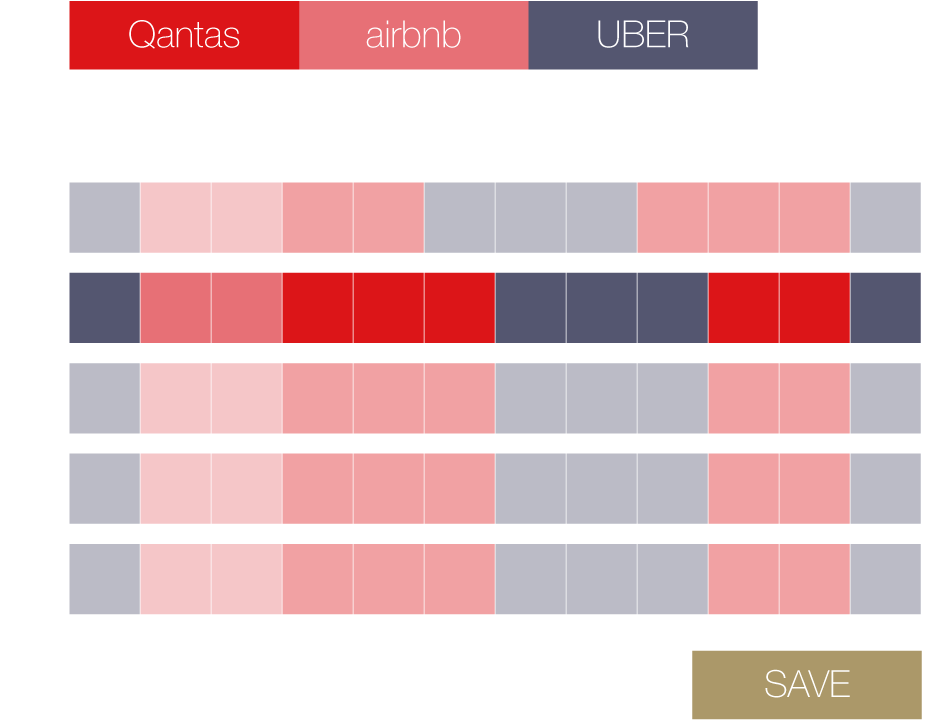
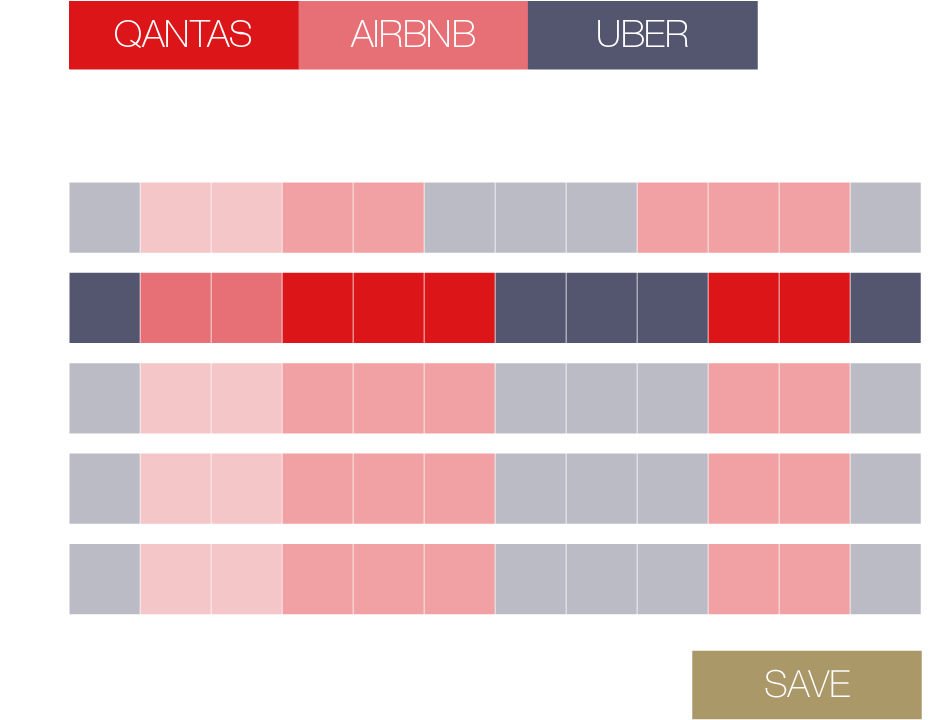
updated amex

Changed region(s): [[0.1238, 0.0306, 0.2785, 0.0917], [0.3714, 0.0306, 0.5261, 0.0611], [0.6499, 0.0306, 0.7428, 0.0611]]

diff --git a/v-qantas/index.html b/v-qantas/index.html
@@ -44,10 +44,10 @@ $('.nav').on('tapstart', function(e) {
 // 	alert(action);
 	if (action=="right") {
 		currView++;
-		if (currView>3) currView = 1;
+		if (currView>4) currView = 1;
 	} else {
 		currView--;
-		if (currView<1) currView = 3;
+		if (currView<1) currView = 4;
 	}
 	
 	switch (currView) {
@@ -59,6 +59,9 @@ $('.nav').on('tapstart', function(e) {
 		break;
 		case 3:
 			target = "#lesmis";
+		break;
+		case 4:
+			target = "#uber";
 		break;
 	}
 	
@@ -294,7 +297,7 @@ a { color: white; }
 			    </div>
 			    
 				<div class="controls" style="float: left; width: 1920px; text-align: center;">
-				    <a class="btn toggle selected" data-action="airbnb">airbnb</a> &nbsp; &nbsp; <a class="btn toggle selected" data-action="amex">AMEX</a> &nbsp; &nbsp; <a class="btn toggle selected" data-action="uber">uber</a> &nbsp; &nbsp; <a class="btn toggle selected" data-action="lesmis">Les Mis&eacute;rable</a>
+				    <a class="btn toggle selected" data-action="airbnb">AIRBNB</a> &nbsp; &nbsp; <a class="btn toggle selected" data-action="amex">AMEX</a> &nbsp; &nbsp; <a class="btn toggle selected" data-action="uber">UBER</a> &nbsp; &nbsp; <a class="btn toggle selected" data-action="lesmis">LES MIS&Eacute;RABLE</a>
 				    <p class="title" style="color: white; padding-top: 30px; font-size: 50px;">TOGGLE</p>
 			    </div>
 
@@ -303,8 +306,8 @@ a { color: white; }
 		    </div> <!-- /botnav-ctrl -->
 		    
 		    
-			    <div class="cpanel-nav" data-action="next" id="next" style="position: absolute; top: 50%; transform: translateY(-50%); right: 500px; "><img src="images/arrowR.png" height="120"></div>
-			    <div class="cpanel-nav" data-action="prev" id="prev" style="position: absolute; top: 50%; transform: translateY(-50%); left: 500px;"><img src="images/arrowL.png" height="120"></div>
+			    <div class="cpanel-nav" data-action="next" id="next" style="position: absolute; top: 50%; transform: translateY(-50%); right: 450px; "><img src="images/arrowR.png" height="120"></div>
+			    <div class="cpanel-nav" data-action="prev" id="prev" style="position: absolute; top: 50%; transform: translateY(-50%); left: 450px;"><img src="images/arrowL.png" height="120"></div>
 		    
 	    </div> <!-- /botnav -->
 	    
@@ -463,10 +466,10 @@ $(function() {
 </div>
 <div id="content-view">
 
-    <div id="airbnb" class="easein page ">
+    <div id="airbnb" class="easein page show">
 	   	<div class="particles" id="balloon"><img src="images/balloon-blur.png" width="300" height="300"></div>
 	    <img src="images/airbnb.jpg" width="1920" height="1080">
-	    <div class="particles" style="position: absolute; left: 50%; top: 55%; transform: translateX(-50%); background: #e34250; padding: 20px 40px; color: white;">SEARCH</div>
+	    <div class="particles" style="position: absolute; left: 50%; top: 55%; transform: translateX(-50%); font-size: 60px; background: #e34250; padding: 20px 40px; color: white;">SEARCH</div>
     </div>
     
 <!--
@@ -521,7 +524,7 @@ $(function() {
 #cloud1 {  -moz-animation: cloud1 60s infinite; }
 #cloud2 {  -moz-animation: cloud2 30s infinite; }
 #cloud3 {  -moz-animation: cloud3 39s infinite; }
-#fly {  -moz-animation: flyshake 5s infinite; }
+#fly, #amex-back {  -moz-animation: flyshake 5s infinite; }
 #plane {  -moz-animation: planeblur 1s infinite; }
 #plane2 {  -moz-animation: planehover 5s infinite; }
 
@@ -540,8 +543,8 @@ $(function() {
 	});
 });
 </script>
-    <div id="amex" class="easein page show" style="background-color: #85bfdb;">
-	    <img src="images/amex-bg.png" width="1920" height="1080" class="noselect" style="position: absolute; left: 0; ">
+    <div id="amex" class="easein page " style="background-color: #85bfdb;">
+	    <img src="images/amex-bg.png" width="1920" height="1080" class="" style="position: absolute; left: 0; ">
 
 	    <div class="particles" style="left: 960px; top: 30px;" id="plane"><img src="images/amex-plane-blur.png" ></div>
 	    <div class="particles" style="left: 960px; top: 30px;" id="plane2"><img src="images/amex-plane.png" ></div>
@@ -570,7 +573,7 @@ $(function() {
 	    
 
 	    <div class="particles" id="amex-logo" style="bottom: 5%; right: 4%; z-index: 1000;"><img src="images/amex-logo.png"></div>
-	    <div class="particles" style="bottom: 3%; right: 22%; padding: 25px 40px; color: white; background: red; font-size: 100px; z-index: 1000;">Apply here</div>
+	    <div class="particles" style="bottom: 3%; right: 22%; z-index: 1000;"><img src="images/amex-apply-here.png" width="300" ></div>
 
     </div>
     
@@ -579,7 +582,9 @@ $(function() {
 	    <div class="particles" style="position: absolute; left: 12.5%; top: 50%; background: #e34250; padding: 20px 40px; color: white;">Book Now</div>
     </div>
 
-
+	<div id="uber" class="easein page">
+	    <img src="images/uber-bg.jpg" width="1920" height="1080">
+    </div>
     
 </div>
 

diff --git a/v-homescreen/index.html b/v-homescreen/index.html
@@ -48,6 +48,7 @@ $('#one').on('tapstart', function() {
 	$('#three').addClass('posL');
 	$('.demo-bg').removeClass('show');
 	$('#one-bg').addClass('show');
+	alert('1');
 });
 
 $('#two').on('tapstart', function() {
@@ -57,6 +58,7 @@ $('#two').on('tapstart', function() {
 	$('#three').addClass('posR');
 	$('.demo-bg').removeClass('show');
 	$('#two-bg').addClass('show');	
+	alert('2');
 });
 
 $('#three').on('tapstart', function() {
@@ -66,6 +68,7 @@ $('#three').on('tapstart', function() {
 	$('#two').addClass('posL');
 	$('.demo-bg').removeClass('show');
 	$('#three-bg').addClass('show');
+	alert('3');
 });
 
 
